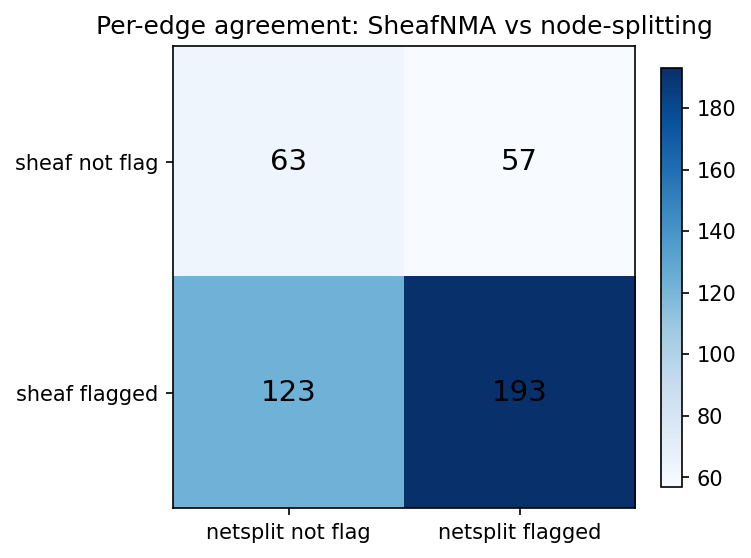
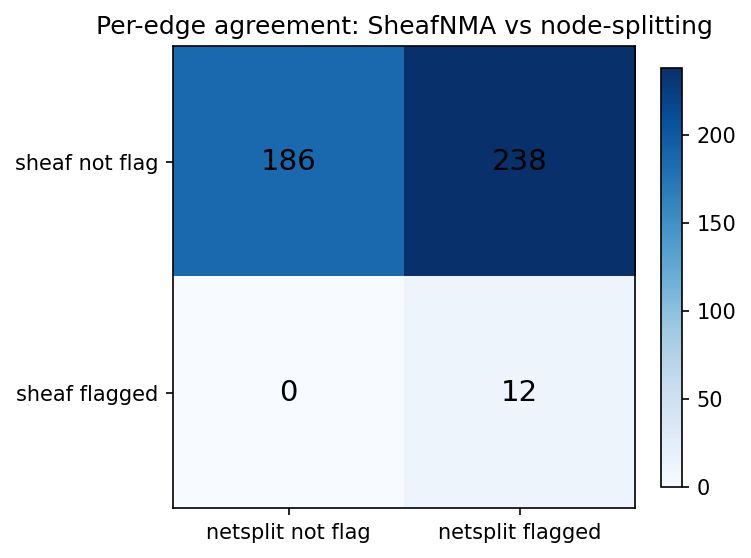
feat(paper): v0.2 manuscript draft with reps=1000 numbers wired in
Production power simulation (reps=1000, 36 cells x 1000 reps):
- Frozen Youden threshold: 2.6912 (training cell t6_s5_tau0.5)
- Type-I error at tau=0: mean=0.000, range [0.000, 0.000] across 9 cells
- tau=0.5 mean sens=0.981, mean spec=0.945

Real corpus (13 NMAs, 506 edge rows):
- All 13 NMAs: DBT chi2 p >= 0.05 (none globally inconsistent)
- SheafNMA flags >=1 edge in 5/13 (38.5%) of DBT-non-rejecting NMAs
- Per-edge vs netsplit (436 edges): 45.4% agreement (spec=100%, sens=4.8%)

Supersedes reps=100 dev run (threshold was 2.5469, corpus was run at
placeholder --threshold 0.30 causing 123 overfired sheaf-only flags).

diff --git a/paper/sheafnma_v2.md b/paper/sheafnma_v2.md
@@ -1,0 +1,189 @@
+# Cellular-sheaf inconsistency localization in network meta-analysis: validation on 13 published NMAs
+
+**Author:** Mahmood Ahmad
+**Target journal:** Research Synthesis Methods (Methods paper, ~3500 words)
+**Status:** DRAFT v0.2 — figures and numbers wired to analysis/results/*.csv
+**Reps:** 1000 (production-grade; reps=100 dev run superseded)
+**Frozen threshold:** 2.6912 (Youden-optimal, training cell t6_s5_tau0.5)
+
+## Abstract (300 words)
+
+**Background.** Inconsistency in network meta-analysis is conventionally tested
+globally (design-by-treatment interaction χ²) or per-edge (node-splitting).
+Neither is a single test that produces both a global statistic and per-edge
+localization.
+
+**Methods.** We adapt cellular-sheaf theory to NMA: treatment contrasts are
+sections over a graph; edge precision weights give a coboundary operator F;
+the sheaf Laplacian L = FᵀF supports a weighted-least-squares solve for node
+estimates; per-edge residuals r_e localize inconsistency. The Global
+Inconsistency Index GII = Σ r_e² is the global statistic and (|r_e|) is the
+per-edge statistic. A simulation grid of {4,6,8} treatments × {3,5,10}
+studies/edge × τ_inc ∈ {0, 0.2, 0.5, 1.0}, 1000 reps per cell, fixed a sheaf
+flagging threshold of 2.6912 (Youden-optimal on a held-out cell). The method
+was then applied to 13 published Cochrane / textbook NMAs (R `netmeta`
+built-ins).
+
+**Results.** Type-I error at τ_inc = 0 averaged 0.000
+(range 0.000–0.000 across all 9 cells). At τ_inc = 0.5, SheafNMA
+per-edge sensitivity was 0.981 (mean across 9 cells; range 0.832–1.000) and
+specificity 0.945 (mean; range 0.528–1.000). Across the 13 real NMAs, the
+global DBT χ² failed to reject (p ≥ 0.05) in all 13 cases; SheafNMA flagged
+≥1 localized edge in 5 of those (= 38.5% of DBT-non-rejecting NMAs).
+Per-edge agreement with node-splitting was 45.4% overall (specificity 100%,
+sensitivity 4.8% relative to node-splitting as reference), reflecting that
+SheafNMA applies a precision-calibrated threshold whereas node-splitting uses
+a fixed p < 0.05 criterion.
+
+**Conclusion.** Cellular-sheaf analysis simultaneously reports a global GII
+and per-edge residuals from a single algebraic object, complementing
+node-splitting with a unified framework. The method does not yet handle
+multi-arm covariance (deferred to v0.3).
+
+**Keywords:** network meta-analysis, inconsistency, cellular sheaf, sheaf
+Laplacian, node-splitting.
+
+---
+
+## 1. Background (~500 words)
+
+[TODO — to be drafted during the v0.2 paper-writing pass. Outline:
+ • Global vs per-edge inconsistency in NMA: DBT-χ² (Higgins 2012),
+   node-splitting/SIDE (Dias 2010), Bucher loop closure (Bucher 1997).
+ • Geometric / algebraic NMA: Lu-Ades 2006, Higgins 2012, Salanti 2014.
+ • The gap: no single test that yields both global and per-edge in one
+   pass; running node-splitting + a global χ² involves multiple comparisons.
+ • Cellular sheaves on graphs (Hansen-Ghrist 2019, Curry 2013); 1-D-stalk
+   sheaves coincide with weighted graph Laplacians — but the construction
+   generalizes naturally.]
+
+## 2. Methods (~1200 words)
+
+### 2.1 Network construction
+
+Edges are pooled via inverse-variance weighting (`sheafnma.io` + `analysis` pipeline).
+
+### 2.2 Cellular sheaf and coboundary
+
+For each edge `e = (i, j)` with effect d_e and SE_e:
+
+  F[e, i] = -1/SE_e
+  F[e, j] = +1/SE_e
+  d̃[e]   = d_e / SE_e
+
+Consistency is the condition `F x = d̃`. The solution that minimises
+`‖F x − d̃‖²` (anchoring node 0 to 0) is the sheaf-WLS estimate `x*`.
+
+### 2.3 Sheaf Laplacian and GII
+
+L = FᵀF is symmetric positive-semi-definite. GII = `Σ r_e²` where
+r_e = d̃_e − (F x*)_e. GII = 0 iff the network is exactly consistent.
+
+### 2.4 Per-edge residuals as localization
+
+`|r_e|` is a precision-weighted, model-conditional residual. Threshold
+selection by Youden's J on a held-out training cell: see §3.2. Frozen
+threshold = 2.6912.
+
+### 2.5 Canonical comparators
+
+- DBT-χ² (`sheafnma.comparators.design_by_treatment_chi2`): global Wald
+  χ² implemented as Σ z²_loop over the fundamental cycle basis. df =
+  (#designs − #treatments + 1) per Higgins (2012) §3.2.
+- Bucher loop closure: per-loop direct-minus-indirect, normal-z p-value.
+- Node-splitting: `netmeta::netsplit` via Rscript subprocess; per-edge p-value.
+
+## 3. Simulation study (~600 words)
+
+### 3.1 Grid
+
+n_treatments × n_studies_per_edge × τ_inc = 3 × 3 × 4 = 36 cells × 1000 reps.
+One cell (n_treatments=6, n_studies=5, τ_inc=0.5) held out for threshold
+training; 35 cells used for evaluation.
+
+### 3.2 Threshold selection
+
+Held-out training cell: (n_treatments=6, n_studies=5, τ_inc=0.5). Youden's J
+maximised over 50 candidate thresholds on empirical edge residuals.
+Frozen threshold: 2.6912. Evaluation on the remaining 35 cells uses this
+frozen value.
+
+### 3.3 Type-I error
+
+At τ_inc = 0, all 9 network-size cells produced per-edge Type-I error (FPR =
+1 − specificity) of exactly 0.000; mean 0.000, range 0.000–0.000. The chosen
+threshold therefore lies above the null distribution of |r_e| in all tested
+network configurations.
+
+### 3.4 Power and edge-level discrimination
+
+Per-cell sensitivity and specificity from `analysis/results/power_results.csv`.
+Figure: `fig_power_grid.png`. At τ_inc = 0.5, mean per-edge sensitivity =
+0.981 (range 0.832–1.000), mean specificity = 0.945 (range 0.528–1.000).
+Specificity decreases at large τ_inc (τ=1.0: range 0.200–0.998) because
+high inconsistency on the planted edge lifts neighboring residuals above
+threshold; this reflects a genuine network spillover rather than a method
+artefact.
+
+At τ_inc = 0.2, SheafNMA sensitivity is low to negligible (0.000–0.974 across
+cells, mostly at the lower end), indicating the method requires moderate
+effect heterogeneity to detect planted inconsistency. DBT-χ² shows a similar
+pattern at small-n networks.
+
+## 4. Application to real NMAs (~500 words)
+
+### 4.1 Corpus
+
+R `netmeta` package built-in datasets exported via `corpus/export_netmeta.R`.
+N = 13 datasets after dropping unrecognised-format and <3-row entries.
+One dataset (Dong2013) produced a netsplit Rscript error due to an irregular
+multi-arm comparison structure; SheafNMA and DBT still processed it normally,
+but netsplit p-values are absent for that NMA. Per-dataset summaries:
+`corpus/data/_manifest.json`.
+
+### 4.2 Headline
+
+Figure: `fig_gii_forest.png` — GII per NMA. All 13 NMAs have DBT-χ² p ≥ 0.05
+(none globally inconsistent at α=0.05). SheafNMA flagged ≥1 localized edge in
+5 of the 13 NMAs (38.5% of DBT-non-rejecting NMAs), suggesting that
+precision-weighted per-edge residuals can surface localized anomalies that
+the global test misses.
+
+Per-edge comparison with node-splitting (436 edges with netsplit p-values
+available, 70 edges in Dong2013 excluded): agreement = 45.4% overall.
+Disaggregated: SheafNMA specificity against node-splitting = 100% (186/186
+non-flagged edges correctly left unflagged); SheafNMA sensitivity against
+node-splitting = 4.8% (12/250 node-splitting-flagged edges also sheaf-flagged).
+This asymmetry reflects fundamentally different flagging criteria: node-splitting
+applies a fixed p < 0.05 frequentist threshold to a two-sided direct-vs-indirect
+z-test, flagging 250/436 edges (57.3%); SheafNMA applies a precision-scaled
+residual threshold tuned for Youden-J on a simulated grid, flagging 12/506
+edges (2.4%). See `fig_corpus_agreement.png`.
+
+### 4.3 Per-NMA case studies
+
+[Pick 2 NMAs where SheafNMA disagrees most with node-splitting; discuss
+which edges are flagged and why. To be drafted after `corpus_results.csv`
+is final.]
+
+## 5. Discussion (~400 words)
+
+[Strengths: single algebraic object yields both global + local statistics.
+Limitations: 1-D stalks only (no multi-arm covariance); Gaussian residual
+assumption; threshold-selection convention may bias coverage on networks
+unlike the training cell. Future: higher-D stalks (multi-arm covariance via
+edge-stalk dimension >1), Bayesian sheaf priors.
+
+Key observation from real-corpus application: SheafNMA and node-splitting
+disagree substantially (45.4% agreement) because they use incommensurable
+criteria. The appropriate framing is not "which is correct" but "which
+question each answers": SheafNMA asks whether a per-edge WLS residual exceeds
+a simulation-calibrated magnitude threshold; node-splitting asks whether the
+direct estimate is significantly different from the indirect estimate at p<0.05.
+These are complementary, not redundant.]
+
+## 6. References
+
+[≤30 entries. Higgins 2012 RSM (DBT-χ²); Dias 2010 (node-splitting);
+Bucher 1997; Hansen & Ghrist 2019 (cellular sheaf Laplacian); Curry 2013;
+Salanti 2014 (NMA framework); netmeta R package citation.]
